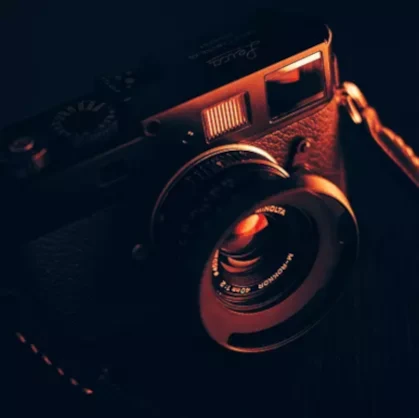
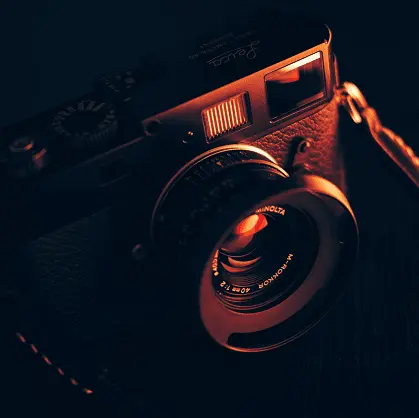
delete maugallery and scripts js, add modal.js and change images

diff --git a/index.html b/index.html
@@ -1,16 +1,29 @@
 <!DOCTYPE html>
 <html lang="fr">
 <head>
+	<meta charset="UTF-8">
 	<meta name="viewport" content="width=device-width, initial-scale=1.0">
-	<meta name="description" content="Nina Carducci est une photographe. Elle vous propose ses services afin de figer vos moments de bonheur et de partage au travers de ses photographies" />
+	<meta name="description" content="Nina Carducci est une photographe se situant à Bordeaux. Elle vous propose ses services afin de figer vos moments de bonheur et de partage au travers de ses photographies" />
 	<title>Nina Carducci - Photographe</title>
+	<link rel="preconnect" href="https://fonts.googleapis.com">
+	<link rel="preconnect" href="https://fonts.gstatic.com" crossorigin="">
 	<link rel="stylesheet" href="./assets/bootstrap/bootstrap.min.css">
 	<link rel="stylesheet" href="./assets/style.css">
-	<link href="https://fonts.googleapis.com/css2?family=Inter&family=Spectral:ital,wght@0,400;1,300;1,400;1,800&display=swap" rel="stylesheet">
-	<meta charset="UTF-8">
+	<link rel="stylesheet" href="https://fonts.googleapis.com/css2?family=Inter&family=Spectral:ital,wght@0,400;1,300;1,400;1,800&display=swap">
+	<!-- Twitter Card data -->
+	<meta name="twitter:card" content="summary">
+	<meta name="twitter:title" content="Nina Carducci - Photographe">
+	<meta name="twitter:description" content="Figez vos meilleurs instants de vie grâce à mes compétences de photographe">
+	<meta name="twitter:image" content="https://github.com/Miyane44/ProjetOC5/blob/7744323f401743b6c282a641c98f6caf31f54d28/assets/images/nina.webp">
+
+	<!-- Open Graph data -->
+	<meta property="og:title" content="Nina Carducci - Photographe"/>
+	<meta property="og:type" content="article"/>
+	<meta property="og:description" content="Figez vos meilleurs instants de vie grâce à mes compétences de photographe"/>
+	<meta property="og:image" content="https://github.com/Miyane44/ProjetOC5/blob/7744323f401743b6c282a641c98f6caf31f54d28/assets/images/nina.webp"/>
 </head>
 <body>
-<header class="top-header">
+	<header class="top-header">
 	<h1 class="name">Nina Carducci</h1>
 	<div class="nav">   
 		<ul>
@@ -23,7 +36,6 @@
 	</div>
 </header>
 <main id="header">
-
 	<div id="carouselExampleIndicators" class="carousel slide" data-bs-ride="carousel">
 		<div class="carousel-indicators">
 			<button type="button" data-bs-target="#carouselExampleIndicators" data-bs-slide-to="0" class="active" aria-current="true" aria-label="Slide 1"></button>
@@ -52,7 +64,7 @@
 	</div>
 	<div id="about">
 		<div class="picture left">
-			<img src="./assets/images/nina.webp" alt="Nina Carducci">
+			<img src="./assets/images/nina.webp" alt="Photo de Nina Carducci">
 		</div>
 		<div id="about-me">
 			<h2 class="about-me__title">A propos de moi</h2>
@@ -65,15 +77,15 @@
 		<h3 class="title">Portfolio</h3>
 		<div class="container py-3">
 			<div class="gallery">
-				<img data-gallery-tag="Concert" class="gallery-item" src="./assets/images/gallery/concerts/aaron-paul-wnX-fXzB6Cw-unsplash.webp" alt="Aaron Paul"/>
-				<img data-gallery-tag="Entreprises" class="gallery-item" src="./assets/images/gallery/entreprise/ali-morshedlou-WMD64tMfc4k-unsplash_1.webp" alt="Ali Morshedlou"/>
-				<img data-gallery-tag="Entreprises" class="gallery-item" src="./assets/images/gallery/entreprise/jason-goodman-tHO1_OuKbg0-unsplash_1.webp" alt="Jason Goodman"/>
-				<img data-gallery-tag="Mariages" class="gallery-item" src="./assets/images/gallery/mariage/hannah-busing-RvF2R_qMpRk-unsplash.webp" alt="Hannah Busing"/>
-				<img data-gallery-tag="Portrait" class="gallery-item" src="./assets/images/gallery/portraits/ade-tunji-rvkhwwzfatq-unsplash.webp" alt="Ade Tunji"/>
-				<img data-gallery-tag="Mariages" class="gallery-item" src="./assets/images/gallery/mariage/jakob-owens-SiniLJkXhMc-unsplash.webp" alt="Jakob Owens"/>
-				<img data-gallery-tag="Portrait" class="gallery-item" src="./assets/images/gallery/portraits/nino-van-prattenburg--443cl1uR_8-unsplash.webp" alt="Nino Van Prattenburg"/>
-				<img data-gallery-tag="Concert" class="gallery-item" src="./assets/images/gallery/concerts/austin-neill-hgO1wFPXl3I-unsplash.webp" alt="Austin Neill"/>
-				<img data-gallery-tag="Entreprises" class="gallery-item" src="./assets/images/gallery/entreprise/mateus-campos-felipe-Fsgzm8N0hIY-unsplash.webp" alt="Mateus Campos Felipe"/>
+				<img data-gallery-tag="Concert" class="gallery-item" src="./assets/images/gallery/concerts/aaron-paul-wnX-fXzB6Cw-unsplash.webp" alt="Photo d'un concert avec une scène éclairée par une lumière rouge"/>
+				<img data-gallery-tag="Entreprises" class="gallery-item" src="./assets/images/gallery/entreprise/ali-morshedlou-WMD64tMfc4k-unsplash_1.webp" alt="Photo d'un homme en costume qui croise les bras"/>
+				<img data-gallery-tag="Entreprises" class="gallery-item" src="./assets/images/gallery/entreprise/jason-goodman-tHO1_OuKbg0-unsplash_1.webp" alt="Photo d'une femme qui sourit au travail"/>
+				<img data-gallery-tag="Mariages" class="gallery-item" src="./assets/images/gallery/mariage/hannah-busing-RvF2R_qMpRk-unsplash.webp" alt="Photo de mains qui se touchent les bouts des doigts"/>
+				<img data-gallery-tag="Portrait" class="gallery-item" src="./assets/images/gallery/portraits/ade-tunji-rvkhwwzfatq-unsplash.webp" alt="Photo d'un homme qui ferme les yeux"/>
+				<img data-gallery-tag="Mariages" class="gallery-item" src="./assets/images/gallery/mariage/jakob-owens-SiniLJkXhMc-unsplash.webp" alt="Photo de mariés qui se regardent en souriant"/>
+				<img data-gallery-tag="Portrait" class="gallery-item" src="./assets/images/gallery/portraits/nino-van-prattenburg--443cl1uR_8-unsplash.webp" alt="Photo d'une femme portant des lunettes devant un grillage"/>
+				<img data-gallery-tag="Concert" class="gallery-item" src="./assets/images/gallery/concerts/austin-neill-hgO1wFPXl3I-unsplash.webp" alt="Photo d'un homme donnant un concert qui montre le chiffre quatre avec sa main"/>
+				<img data-gallery-tag="Entreprises" class="gallery-item" src="./assets/images/gallery/entreprise/mateus-campos-felipe-Fsgzm8N0hIY-unsplash.webp" alt="Photo d'une femme devant son ordinateur qui rigole"/>
 			</div>
 		</div>
 		<div class="quote">
@@ -145,16 +157,31 @@
 				</form>
 			</div>
 			<div class="picture right">
-				<img src="./assets/images/camera(1).webp" alt="Caméra">
+				<img src="./assets/images/camera.webp" alt="Photo d'un appareil photo">
 			</div>
 		</div>
 	</div>
 </main>
-
 </body>
 <script src="./assets/bootstrap/bootstrap.bundle.min.js"></script>
-<script src="https://code.jquery.com/jquery-3.4.1.min.js" integrity="sha256-CSXorXvZcTkaix6Yvo6HppcZGetbYMGWSFlBw8HfCJo=" crossorigin="anonymous"></script>
-<!-- <script src="./assets/maugallery.js"></script> -->
 <script src="./assets/modal.js"></script>
-<!-- <script src="./assets/scripts.js"></script> -->
+<script type="application/ld+json">
+	{
+		"@context": "https://schema.org",
+		"@type": "LocalBusiness",
+		"name": "Nina Carducci",
+		"image": "https://github.com/Miyane44/ProjetOC5/blob/7744323f401743b6c282a641c98f6caf31f54d28/assets/images/nina.webp",
+		"address": {
+		  "@type": "PostalAddress",
+		  "addressLocality": "Bordeaux",
+		  "adressCountry": "France",
+		  "postalCode": "33200",
+		  "streetAddress": "68 avenue Alsace-Lorraine"
+		},
+		"description": "Photographe professionnel",
+		"openingHours": "Mo-Fr 10:00-19:00",
+		"telephone": "05 56 67 78 89",
+		"url": "https://github.com/Miyane44/ProjetOC5"
+	  }
+</script>
 </html>

diff --git a/assets/modal.js b/assets/modal.js
@@ -90,7 +90,6 @@ filters.forEach(filter => filter.addEventListener("click", function () {
     var tag = filter.getAttribute("data-images-toggle");
 
     galleryItems.forEach(function(galleryItem) {
-        
         const parent = galleryItem.parentNode;
         parent.style.display = 'none';
         if (tag === "all") {

diff --git a/assets/style.css b/assets/style.css
@@ -73,7 +73,6 @@ body {
 
 .picture img {
 	width: 100%;
-	height: 100%;
 }
 #about-me {
 	flex: 2
@@ -315,9 +314,9 @@ input[type="submit"] {
 		margin-top: 1em;
 	}
 	.picture.right::before {
+		position: absolute;
 		width: 100%;
 		height: 30%;
-		position: absolute;
 		bottom: 0;
 		right: 0;
 		z-index: -1;
